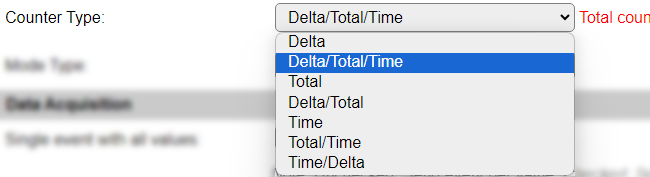
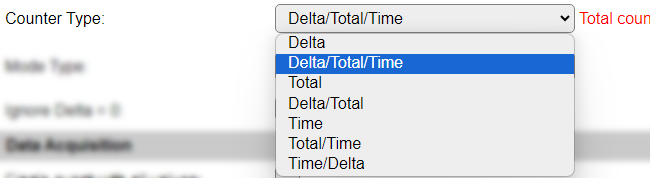
[P003] Add extra setting for Ignore Delta = 0

diff --git a/docs/source/Plugin/P003.rst b/docs/source/Plugin/P003.rst
@@ -39,7 +39,7 @@ Task's Sensor Parameters
 :GPIO <- Pulse:
    Select the GPIO pin at which the pulse is counted
 
-:Debounce Time (mSec):
+:Debounce Time:
   Period in which you allow the signal to be unstable (bouncing) after a level change (high -> low / low -> high).
   The specific use of this parameter to filter out valid signals, depends on the Mode Type (cf. description below).
 
@@ -70,6 +70,9 @@ After saving the settings, the Values section is adjusted to show the number of 
 Available options:
 
 .. image:: P003_ModeTypeOptions.png
+
+:Ignore Delta = 0:
+  When enabled doesn't generate events or send data to Controllers if the Delta (Count) is 0 since the last time the data is read. This also suppresses then initial Read action when the plugin is started!
 
 For setup of some specific device examples see: |P003_usedby|
 
